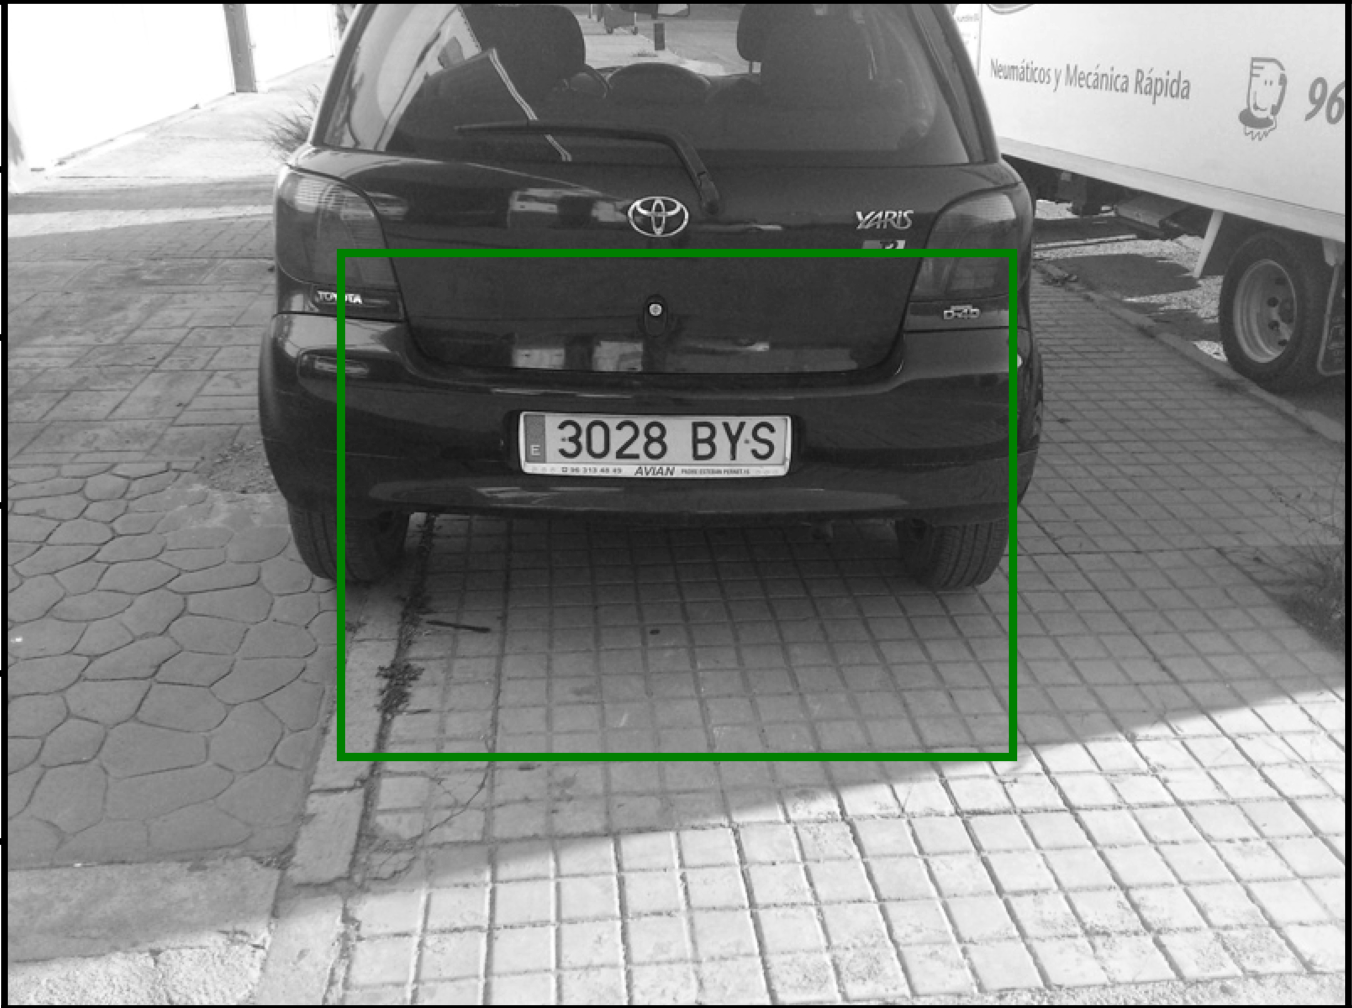
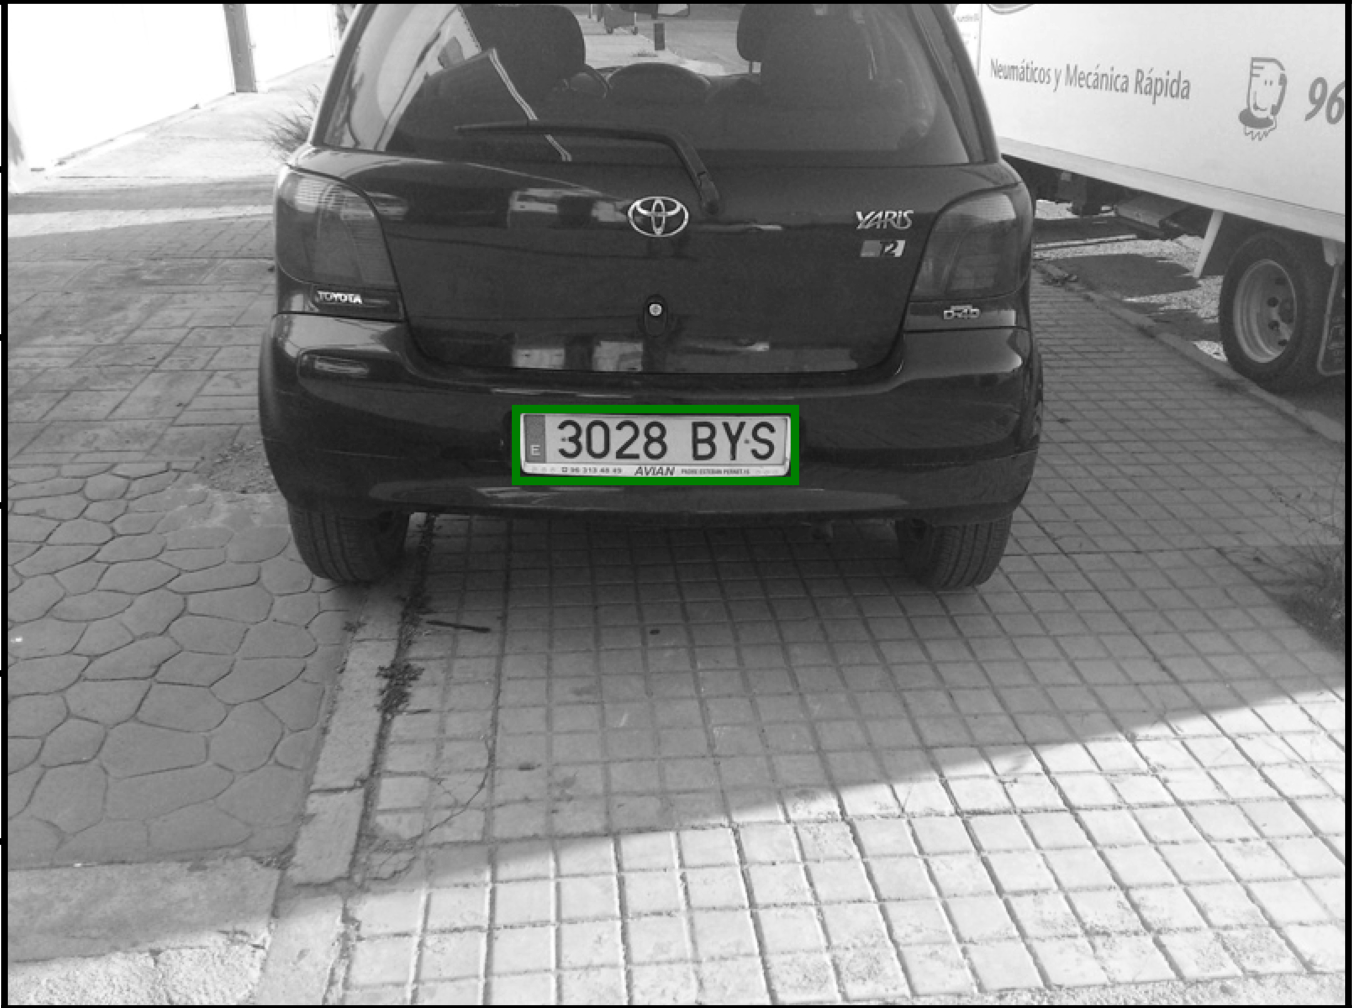
yooooooo

Changed region(s): [[0.2485, 0.246, 0.7766, 0.7688], [0.3728, 0.3998, 0.5902, 0.4921]]

diff --git a/CS373LicensePlateDetection.py b/CS373LicensePlateDetection.py
@@ -228,12 +228,12 @@ def connections(pix_array, image_width, image_height):
             if copyarray[i][j] == region:
                 if j < tl[0]:
                     tl = (j, tl[1])
-                    if i < tl[1]:
-                        tl = (tl[0], i)
+                if i < tl[1]:
+                    tl = (tl[0], i)
                 if j > br[0]:
                     br = (j, br[1])
-                    if i > br[1]:
-                        br = (br[0], i)
+                if i > br[1]:
+                    br = (br[0], i)
     print(tl, br)
     return (tl, br)
 
@@ -302,10 +302,10 @@ def main():
     # compute a dummy bounding box centered in the middle of the input image, and with as size of half of width and height
     center_x = image_width / 2.0
     center_y = image_height / 2.0
-    bbox_min_x = center_x - image_width / 4.0
-    bbox_max_x = center_x + image_width / 4.0
-    bbox_min_y = center_y - image_height / 4.0
-    bbox_max_y = center_y + image_height / 4.0
+    bbox_min_x = tl[0]
+    bbox_max_x = br[0]
+    bbox_min_y = tl[1]
+    bbox_max_y = br[1]
 
 
 
